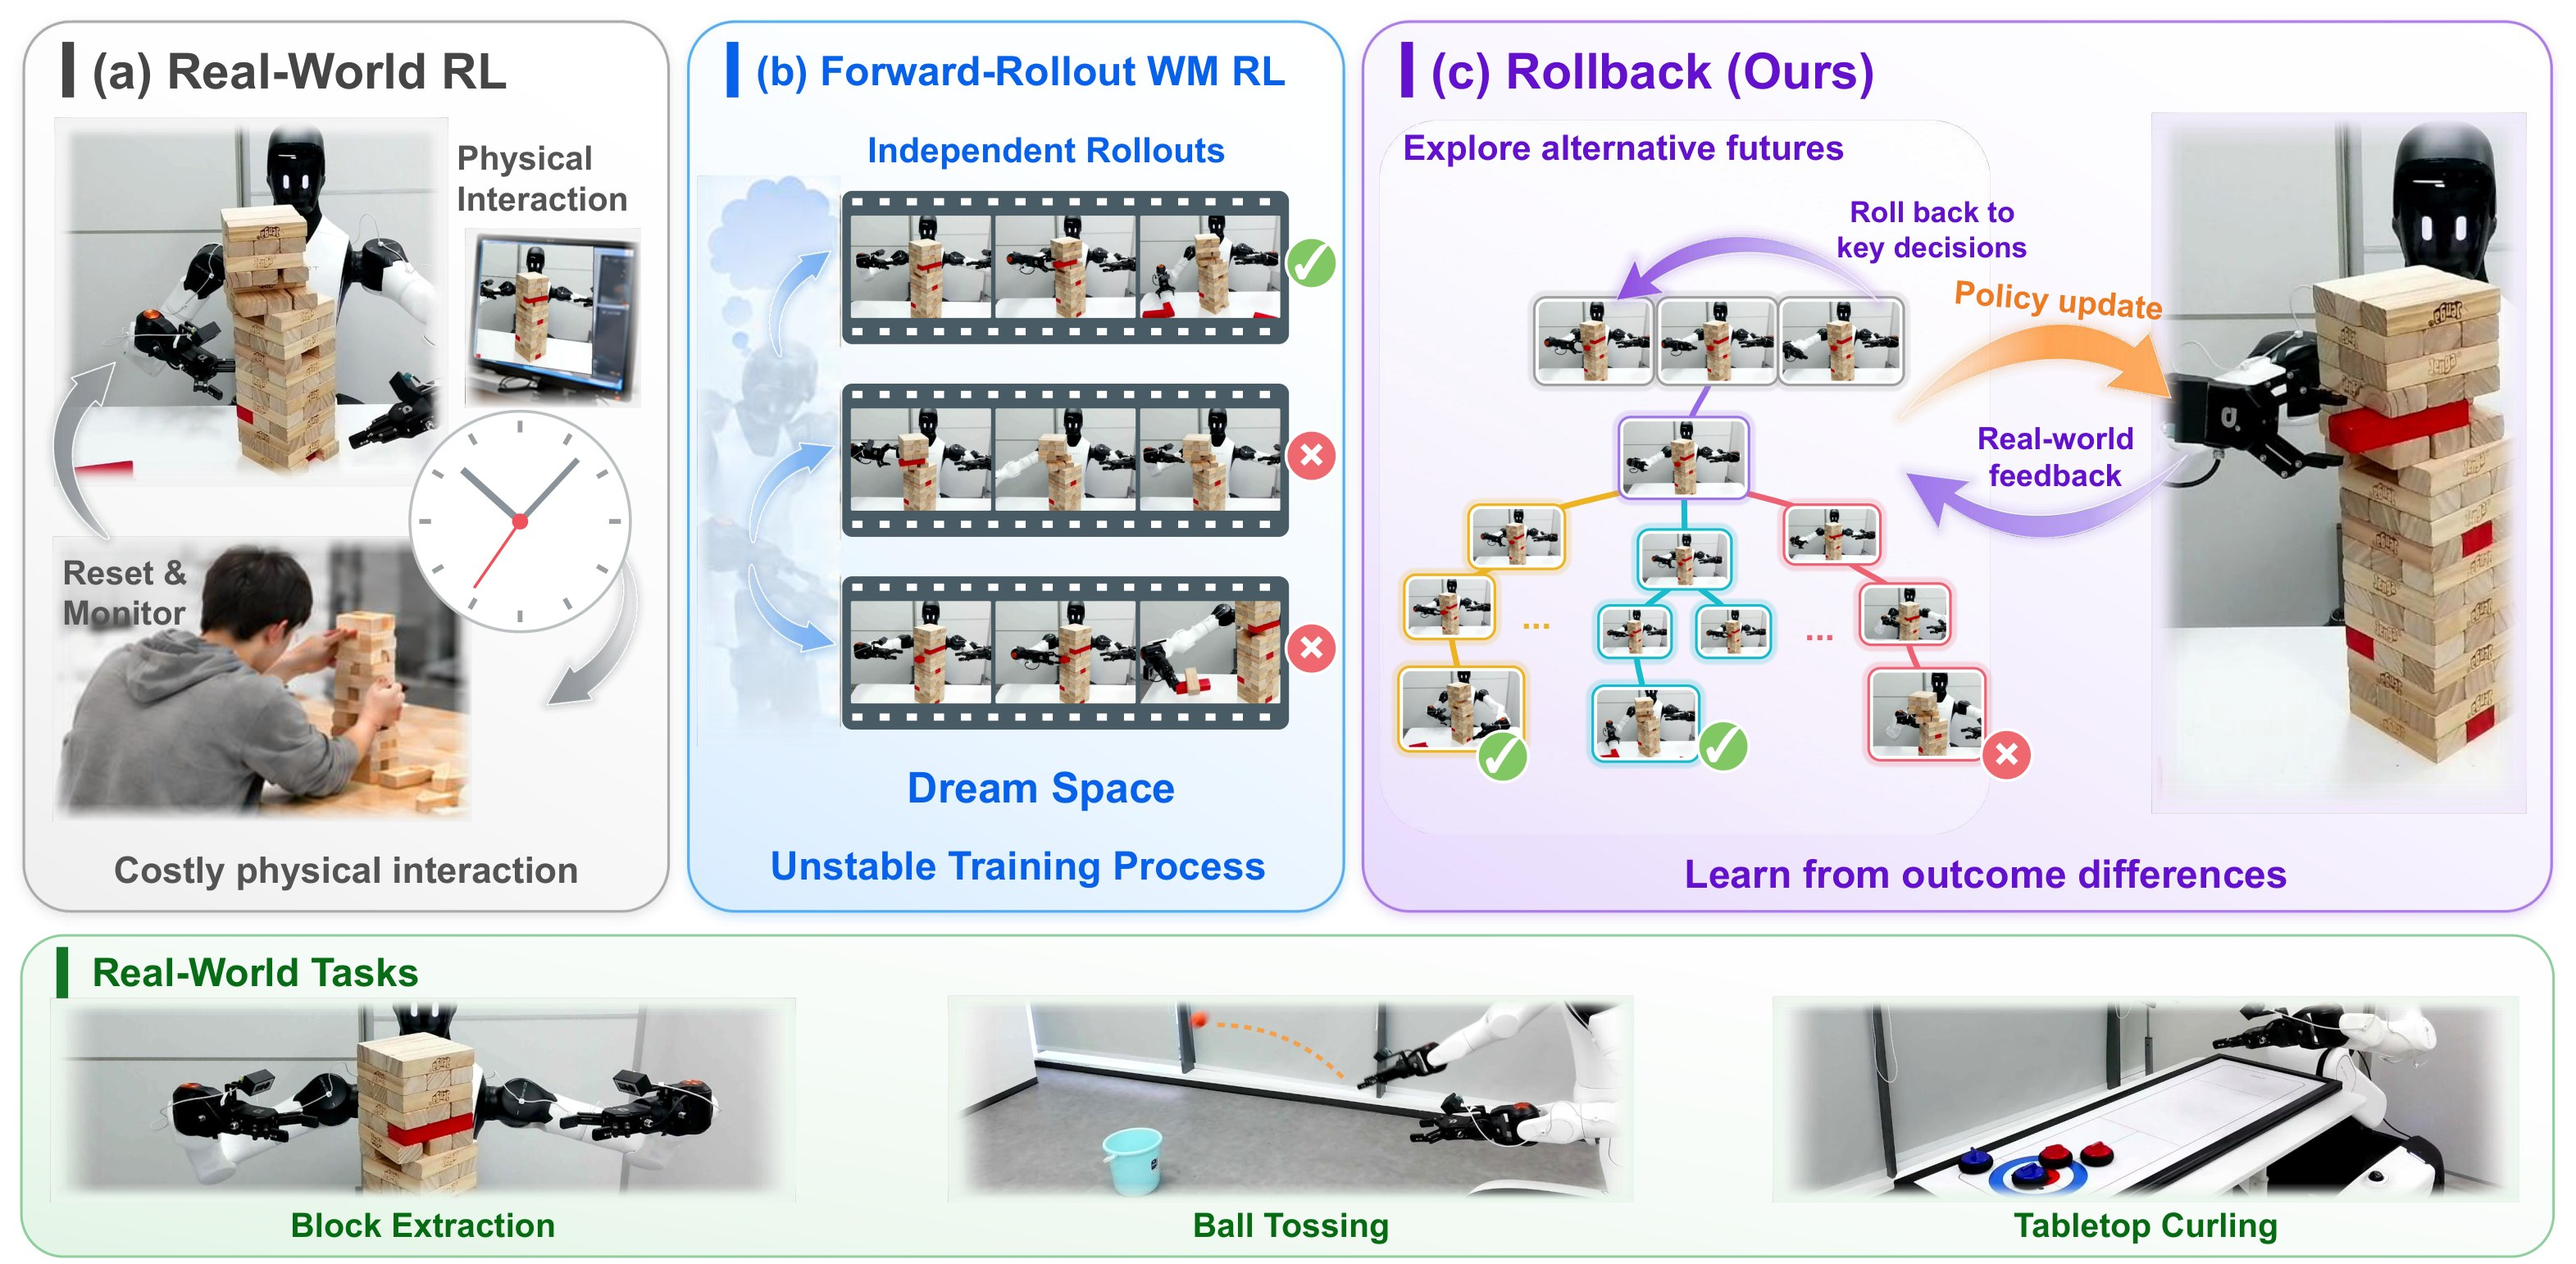
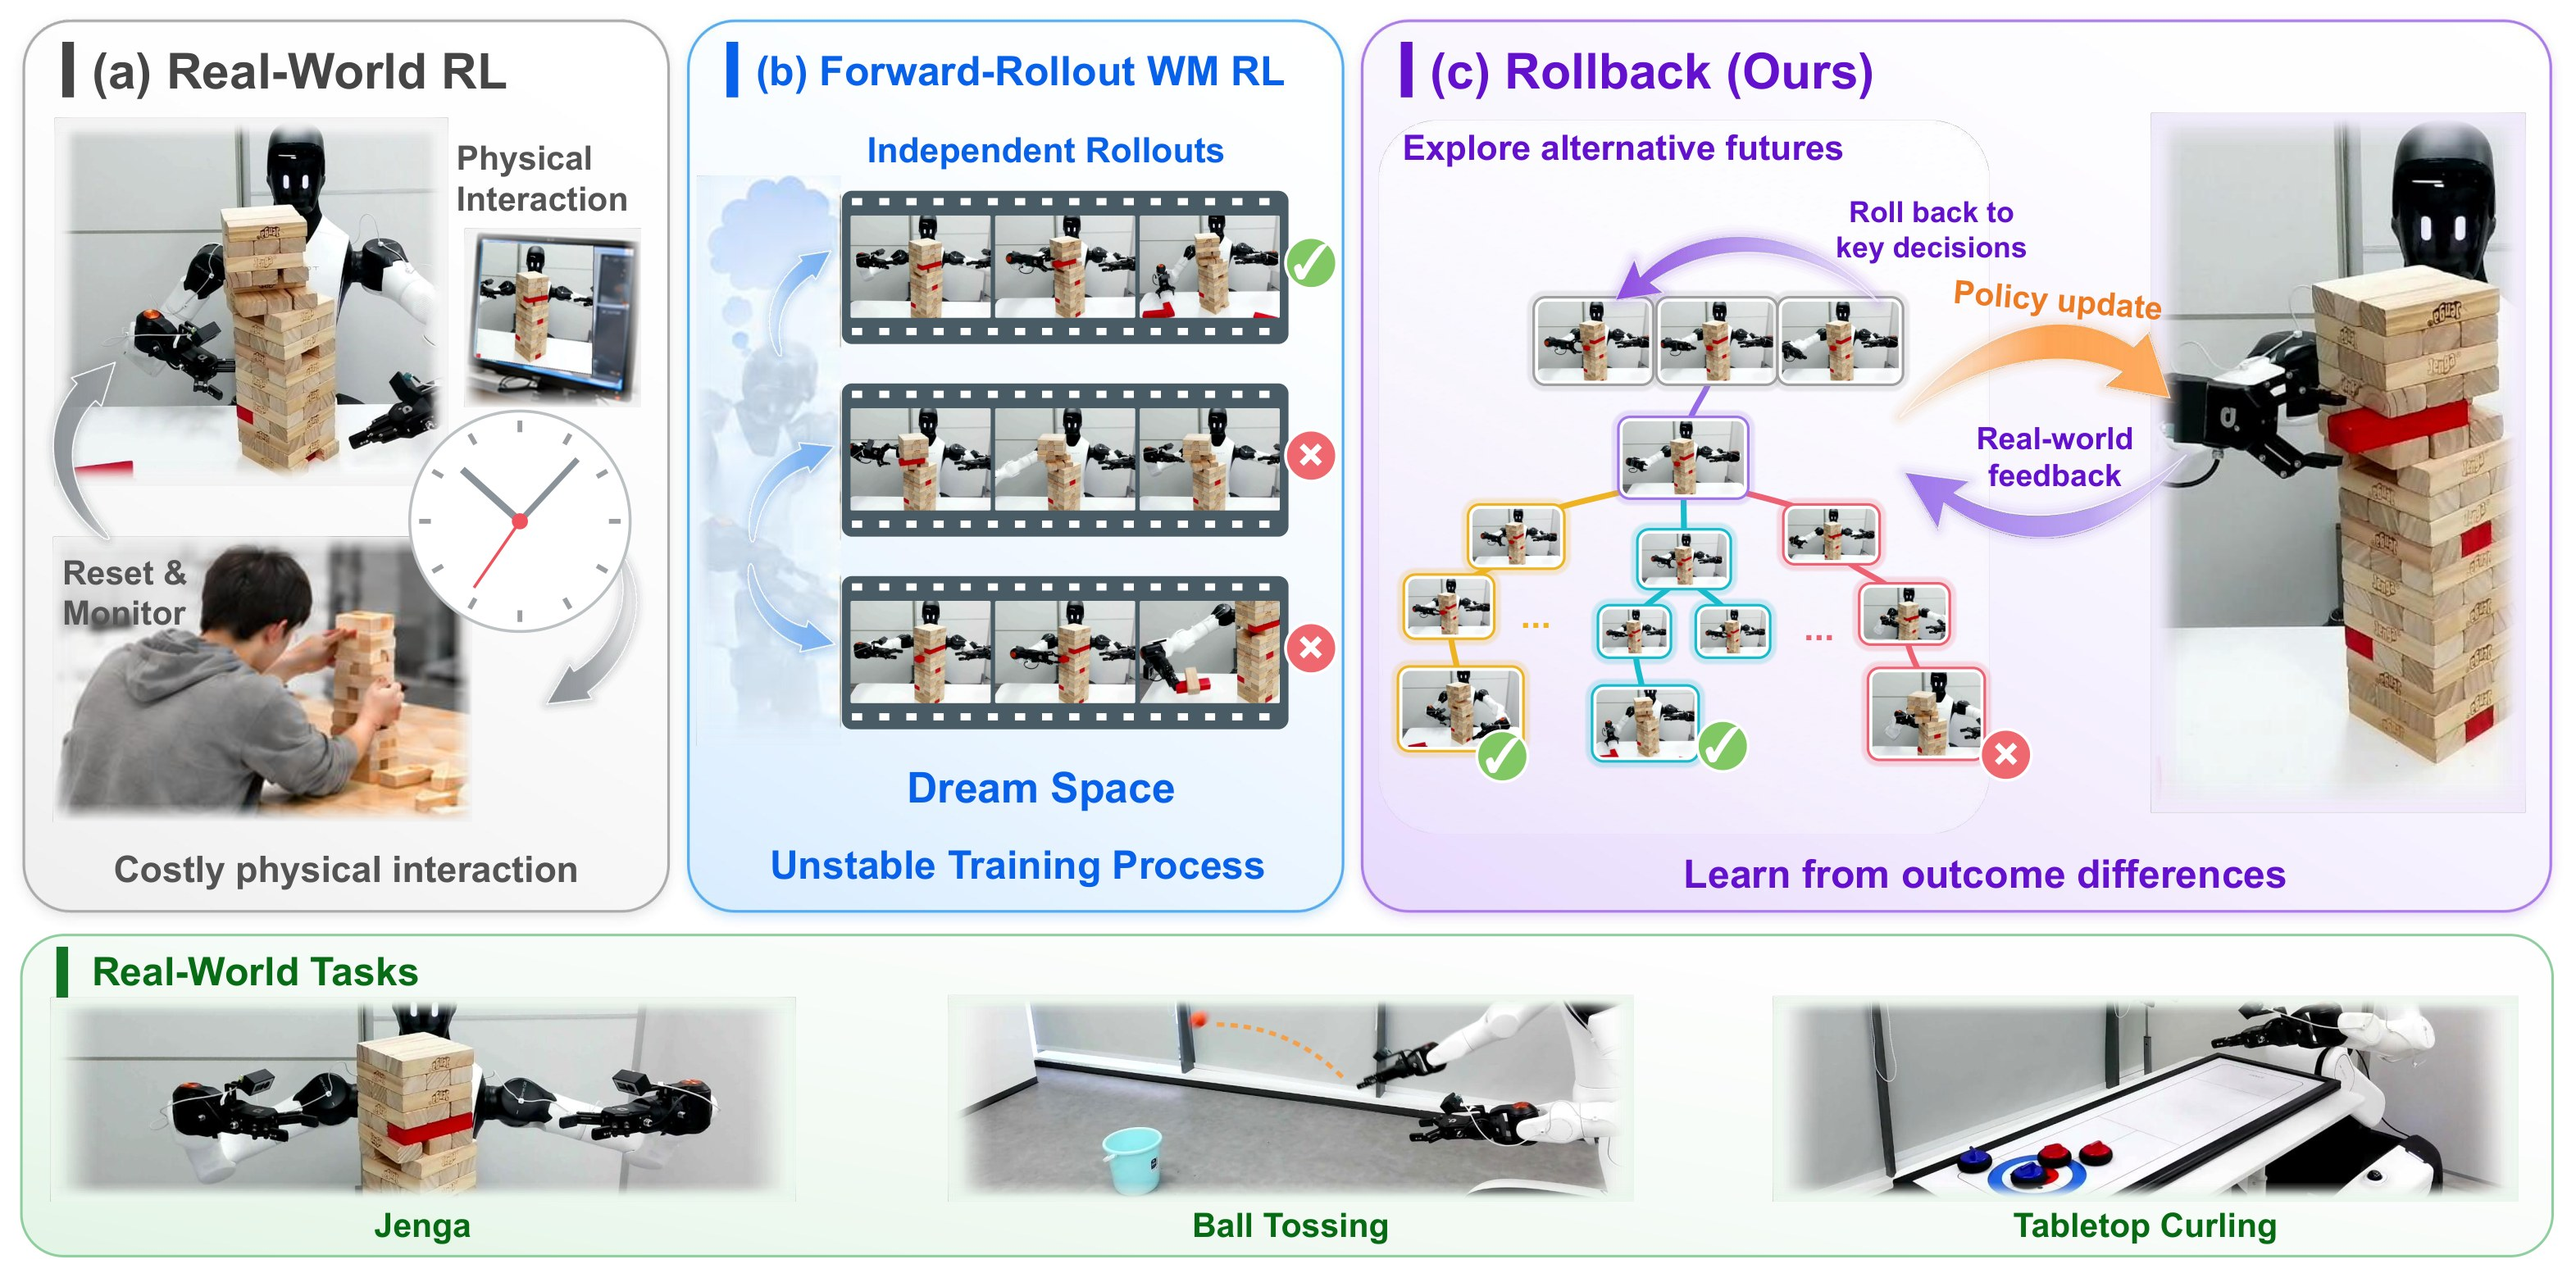
Games instead of tasks, Jenga in Figure 1, faster replay over the real-world spine

diff --git a/index.html b/index.html
@@ -370,7 +370,7 @@
 <nav class="toc" id="toc" aria-label="On this page">
   <div class="cap">CONTENTS <b id="toc-pct">0%</b></div>
   <div class="grp"><a class="g" href="#abstract"><span>01</span>Overview</a>
-    <a class="s" href="#abstract">Core Idea</a><a class="s" href="#results">Tasks</a></div>
+    <a class="s" href="#abstract">Core Idea</a><a class="s" href="#results">Games</a></div>
   <div class="grp"><a class="g" href="#method"><span>02</span>Method</a>
     <a class="s" href="#method">Pipeline</a><a class="s" href="#search">Visualization</a></div>
   <div class="grp"><a class="g" href="#worldmodel"><span>03</span>World Model</a>
@@ -429,9 +429,9 @@
 <section id="results">
   <div class="wrap">
     <div class="reveal">
-      <div class="kicker">Tasks</div>
-      <h2>Three real&#8209;world tasks</h2>
-      <p class="lead">All tasks run on the dual&#8209;arm AGIBOT Genie&#8209;02 robot. The videos show the final Rollback policies.</p>
+      <div class="kicker">Games</div>
+      <h2>Three real&#8209;world games</h2>
+      <p class="lead">All games are played by the dual&#8209;arm AGIBOT Genie&#8209;02 robot. The videos show the final Rollback policies.</p>
     </div>
     <!-- new demo footage (shoot of 10-24/25) replaces these three clips -->
     <div class="tasks">
@@ -574,7 +574,7 @@
   <div class="wrap">
     <div class="reveal">
       <div class="kicker">Results</div>
-      <h2>Best on all 3 tasks</h2>
+      <h2>Best on all 3 games</h2>
       <p class="lead">Real&#8209;world success rates (%). All methods start from the same &pi;<sub>0.5</sub> policy. <span class="nw">RISE w/ GE&#8209;Sim2</span> is our reimplementation of RISE on the same world model, so the gap comes from backtracking search and tree&#8209;structured supervision.</p>
     </div>
     <div class="chart-card reveal">
@@ -608,8 +608,8 @@
     <div class="reveal" id="human">
       <h3 class="sub-h">Surpassing human players</h3>
       <p class="lead">
-        Three people played each task by hand, judged by the same success criteria as the robot.
-        Rollback starts from a policy trained on teleoperation data, which is well below human level, and ends above the human average on both tasks. Each video shows a human player first, then the robot with Rollback.
+        Three people played each game by hand, judged by the same success criteria as the robot.
+        Rollback starts from a policy trained on teleoperation data, which is well below human level, and ends above the human average in both games. Each video shows a human player first, then the robot with Rollback.
       </p>
     </div>
     <div class="grid-2">
@@ -800,10 +800,14 @@
       if (ti >= TOUR.length) { svg.classList.remove('dim'); timer = setTimeout(startTour, 2500); return; }
       const s = TOUR[ti];
       if (tj === 0 && s.at != null) { markSeen(s.at); }
+      // nodes without a clip are still frames (the real-world spine): reveal them all at once instead of one by one
+      while (tj < s.ids.length - 1 && !N[s.ids[tj]].clip) {
+        const k0 = s.ids[tj]; path(k0).forEach(k => { if (N[k].real || seen.has(k) || k === k0) markSeen(k); }); tj++;
+      }
       const id = s.ids[tj];
       path(id).forEach(k => { if (N[k].real || seen.has(k) || k === id) markSeen(k); });
       show(id, s.say, false);
-      if (!N[id].clip) { timer = setTimeout(advance, 300); }
+      if (!N[id].clip) { timer = setTimeout(advance, 1200); }
     }
     function advance() { if (!touring) return; tj++; if (tj >= TOUR[ti].ids.length) { ti++; tj = 0; timer = setTimeout(stepTour, 500); } else stepTour(); }
     tv.addEventListener('ended', () => { if (touring) advance(); });
